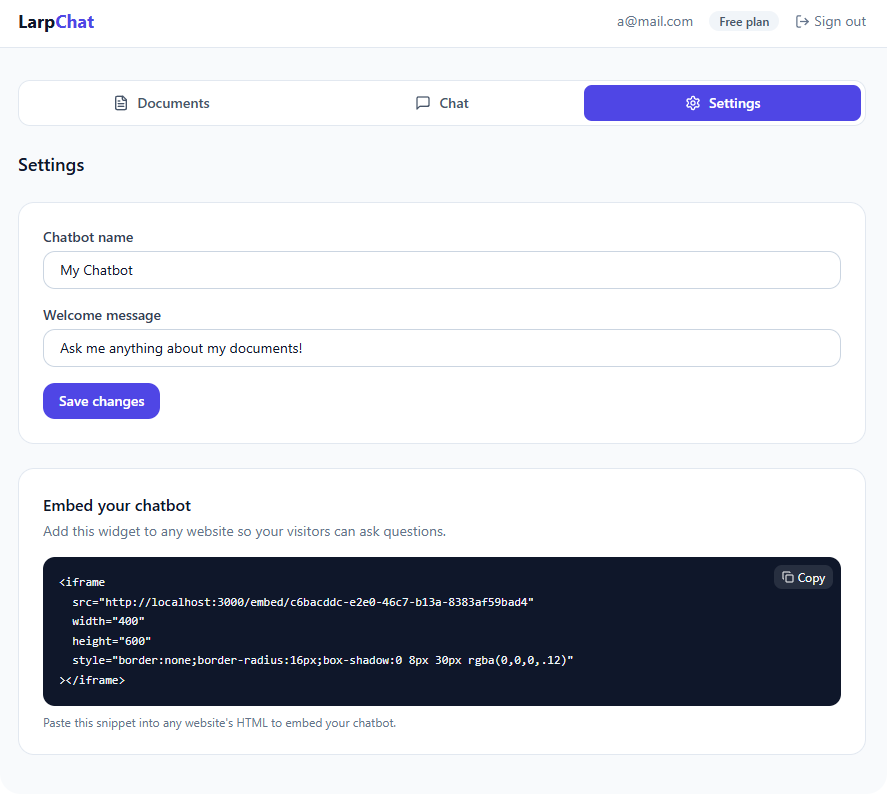
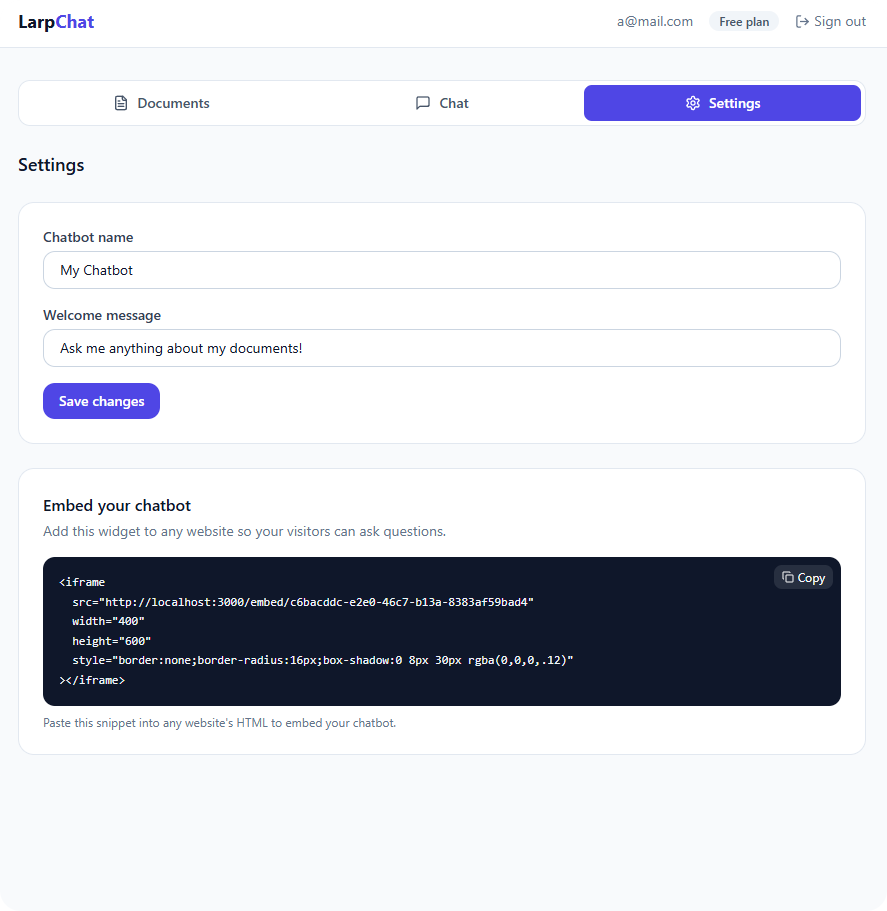
docs: add project screenshots to README

diff --git a/README.md b/README.md
@@ -17,17 +17,13 @@
 
 ## 🖼 Screenshots
 
-### Landing page
-
-![LarpChat landing page](<docs/screenshots/LarpChat — Turn your docs into a chatbot 1.png>)
-
-### Authentication
-
-![LarpChat authentication](<docs/screenshots/LarpChat — Turn your docs into a chatbot 2.png>)
-
-### Dashboard
-
-![LarpChat dashboard](<docs/screenshots/LarpChat — Turn your docs into a chatbot 3.png>)
+<table>
+  <tr>
+    <td><img src="docs/screenshots/LarpChat — Turn your docs into a chatbot 1.png" width="280" alt="LarpChat landing page"></td>
+    <td><img src="docs/screenshots/LarpChat — Turn your docs into a chatbot 2.png" width="280" alt="LarpChat authentication"></td>
+    <td><img src="docs/screenshots/LarpChat — Turn your docs into a chatbot 3.png" width="280" alt="LarpChat dashboard"></td>
+  </tr>
+</table>
 
 ## 🧱 Tech stack
 
